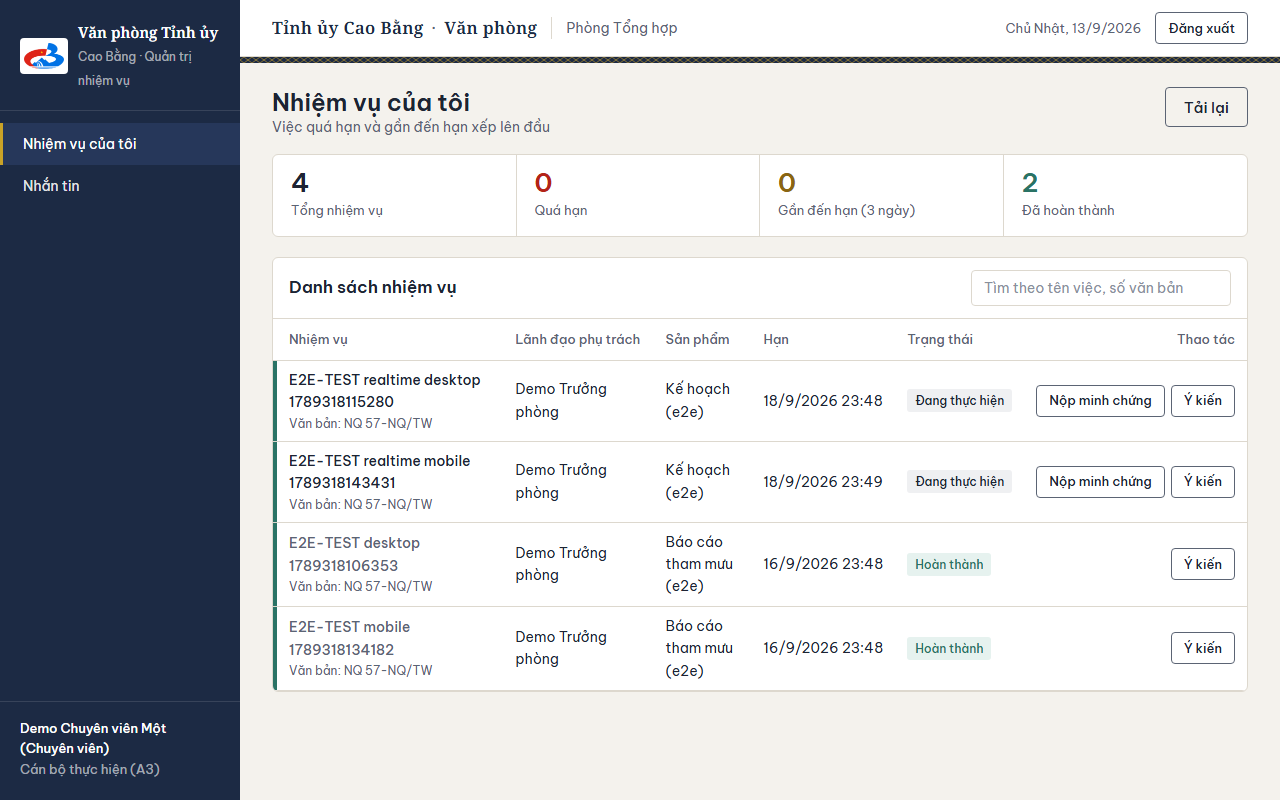
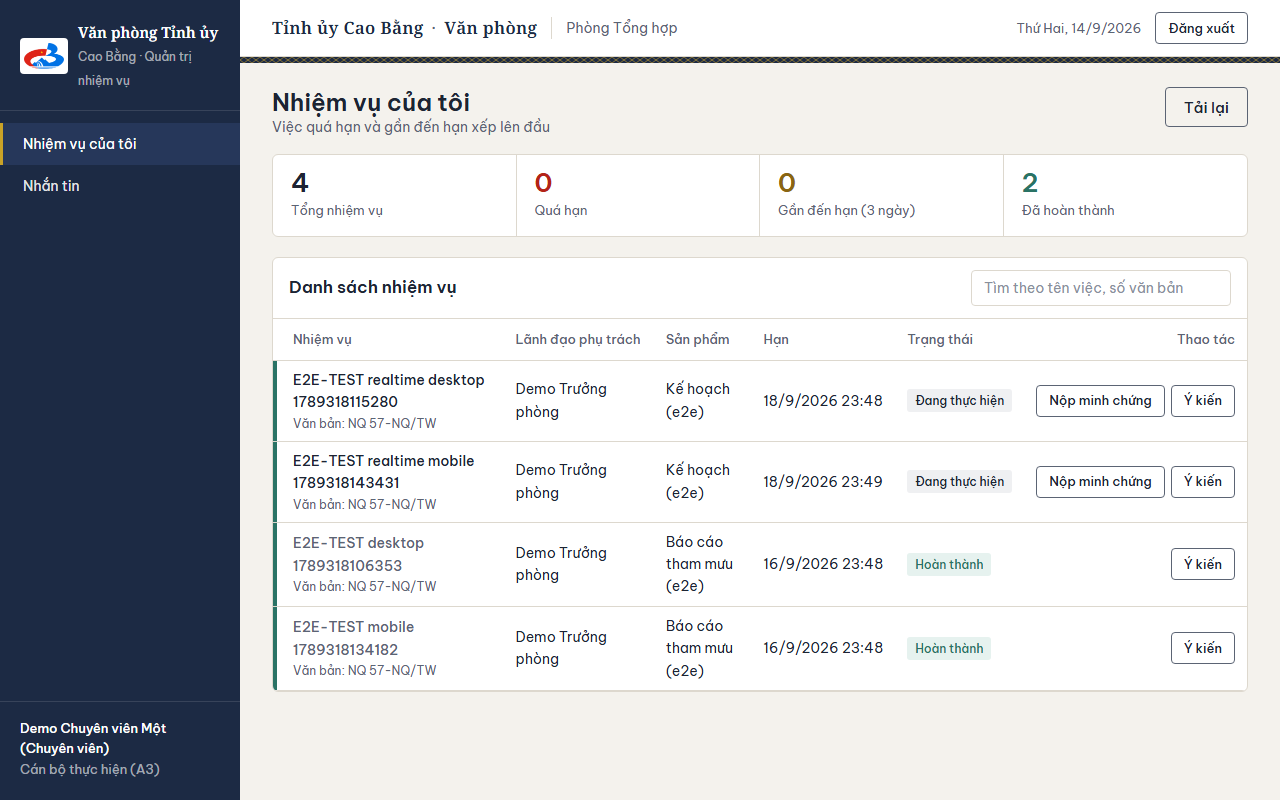
GĐ5 PR (b): sửa theo duyệt điểm dừng 2 — dải màu không đè chữ trên thẻ mobile, tiêu đề + nút cùng hàng, tên nhiệm vụ đậm
- Mobile: dải 4px chuyển hẳn sang thẻ (tr), ô đầu padding 0, tên nhiệm vụ 600; desktop ô đầu padding-left 20px
- .dau-trang trên điện thoại: không xuống hàng, nút gọn hơn; A1 ẩn nút Làm mới (an-dien-thoai)
- Ảnh a1/a2/a3-360 chụp lại; e2e 16/16

diff --git a/frontend/src/styles/tables.css b/frontend/src/styles/tables.css
@@ -28,7 +28,7 @@
     border-bottom: 1px solid var(--cb-vien); white-space: nowrap; }
   .bang td { padding: 8px 12px; height: 44px; border-bottom: 1px solid var(--cb-vien); vertical-align: middle; }
   .bang tbody tr:last-child > td { border-bottom: 0; }
-  .bang td:first-child, .bang th:first-child { padding-left: 16px; }
+  .bang td:first-child, .bang th:first-child { padding-left: 20px; } /* 4px dải + 16px */
   .bang th.so, .bang td.so { text-align: center; }
   .bang th.phai, .bang td.phai { text-align: right; }
   .bang .trong { text-align: center; color: var(--cb-muc-nhat); padding: 24px 16px; }
@@ -71,7 +71,9 @@
     .bang tr.r-vang { box-shadow: inset 4px 0 0 var(--muc-vang); }
     .bang tr.r-xanh, .bang tr.r-ht { box-shadow: inset 4px 0 0 var(--muc-xanh); }
     .bang td { height: auto; padding: 2px 0; border: 0; }
-    .bang td:first-child { box-shadow: none; padding-left: 0; }
+    /* Dải màu chuyển từ ô đầu sang cả thẻ (tr); đủ độ ưu tiên để thắng quy tắc desktop tr.r-* > td:first-child. */
+    .bang tr > td:first-child { box-shadow: none; padding-left: 0; font-weight: 600; }
+    .bang tr > td:first-child small { font-weight: 400; }
     .bang td.so, .bang td.phai { text-align: left; }
     .bang td[data-nhan]::before { content: attr(data-nhan) ": "; color: var(--cb-muc-nhat); font-size: 12px; }
     .bang td .thao-tac { justify-content: flex-start; flex-wrap: wrap; padding-top: 6px; }

diff --git a/frontend/src/styles/layout.css b/frontend/src/styles/layout.css
@@ -71,8 +71,11 @@
     .top .ngay { display: none; }
     .top .phong { order: 3; flex-basis: 100%; padding-left: 0; border-left: 0; font-size: 13px; }
     .noi-dung { padding: 16px 16px 84px; }
-    .dau-trang { flex-wrap: wrap; }
-    .dau-trang h1 { font-size: 20px; }
+    /* Tiêu đề và nút cùng một hàng, nút căn phải, gọn hơn. */
+    .dau-trang { flex-wrap: nowrap; align-items: flex-start; gap: 10px; }
+    .dau-trang h1 { font-size: 20px; flex: 1; min-width: 0; }
+    .dau-trang .btn { height: 36px; padding: 0 12px; font-size: 14px; }
+    .an-dien-thoai { display: none; } /* nút phụ không cần trên điện thoại (ví dụ Làm mới: bấm mục thanh dưới cũng nạp lại) */
     .the-dang-nhap { --card-px: 20px; padding-top: 24px; }
     .man-dang-nhap { padding: 16px 16px 64px; }
     .modal { padding: 20px 16px; }

diff --git a/frontend/src/views/a1/template.js b/frontend/src/views/a1/template.js
@@ -5,7 +5,7 @@ export const a1Template = `
     <div class="dau-trang">
       <h1>Bảng điều khiển ngoại lệ<small>Nhiệm vụ chậm tiến độ hoặc bị từ chối, cần lãnh đạo quan tâm hôm nay</small></h1>
       <div class="flex gap-2 shrink-0">
-        <button type="button" data-action="loadA1Dashboard" class="btn btn-phu">Làm mới</button>
+        <button type="button" data-action="loadA1Dashboard" class="btn btn-phu an-dien-thoai">Làm mới</button>
         <button type="button" data-action="toggleA1GiaoViec" class="btn btn-chinh">Giao việc</button>
       </div>
     </div>
